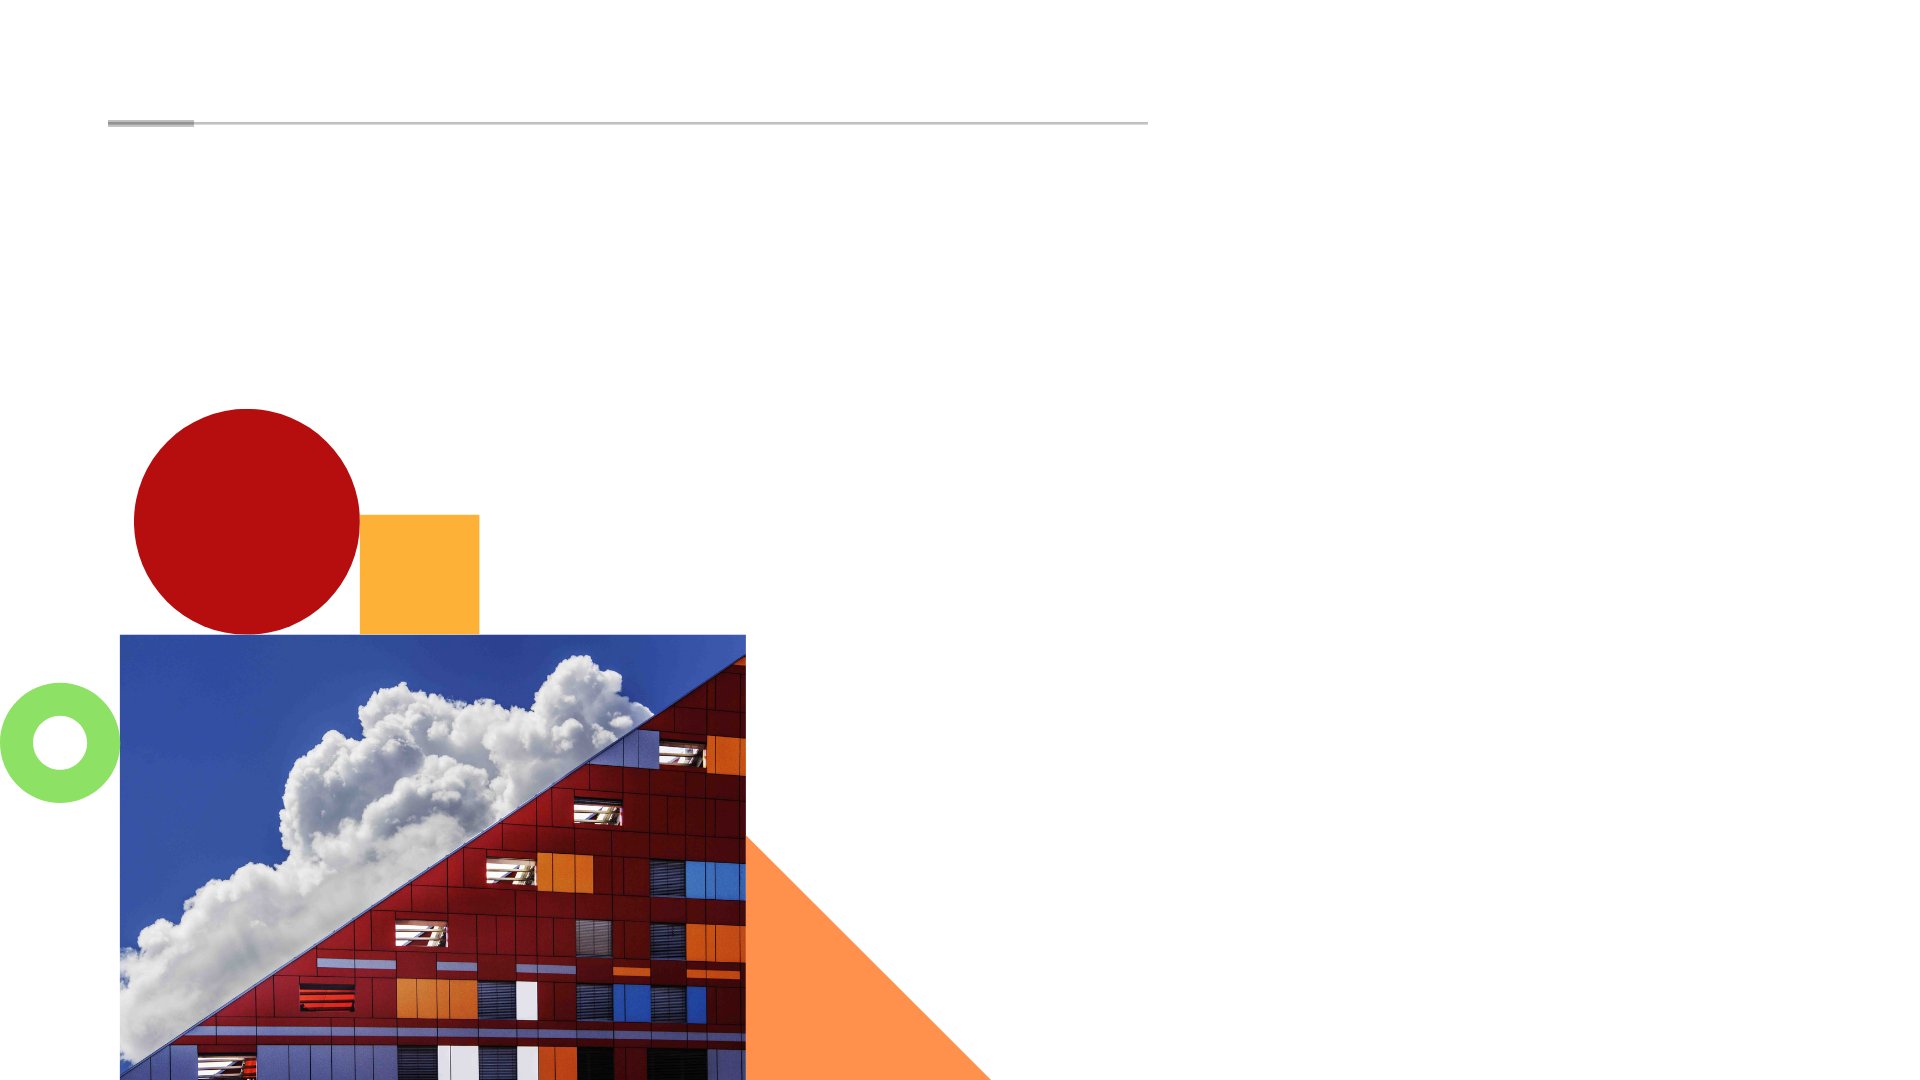
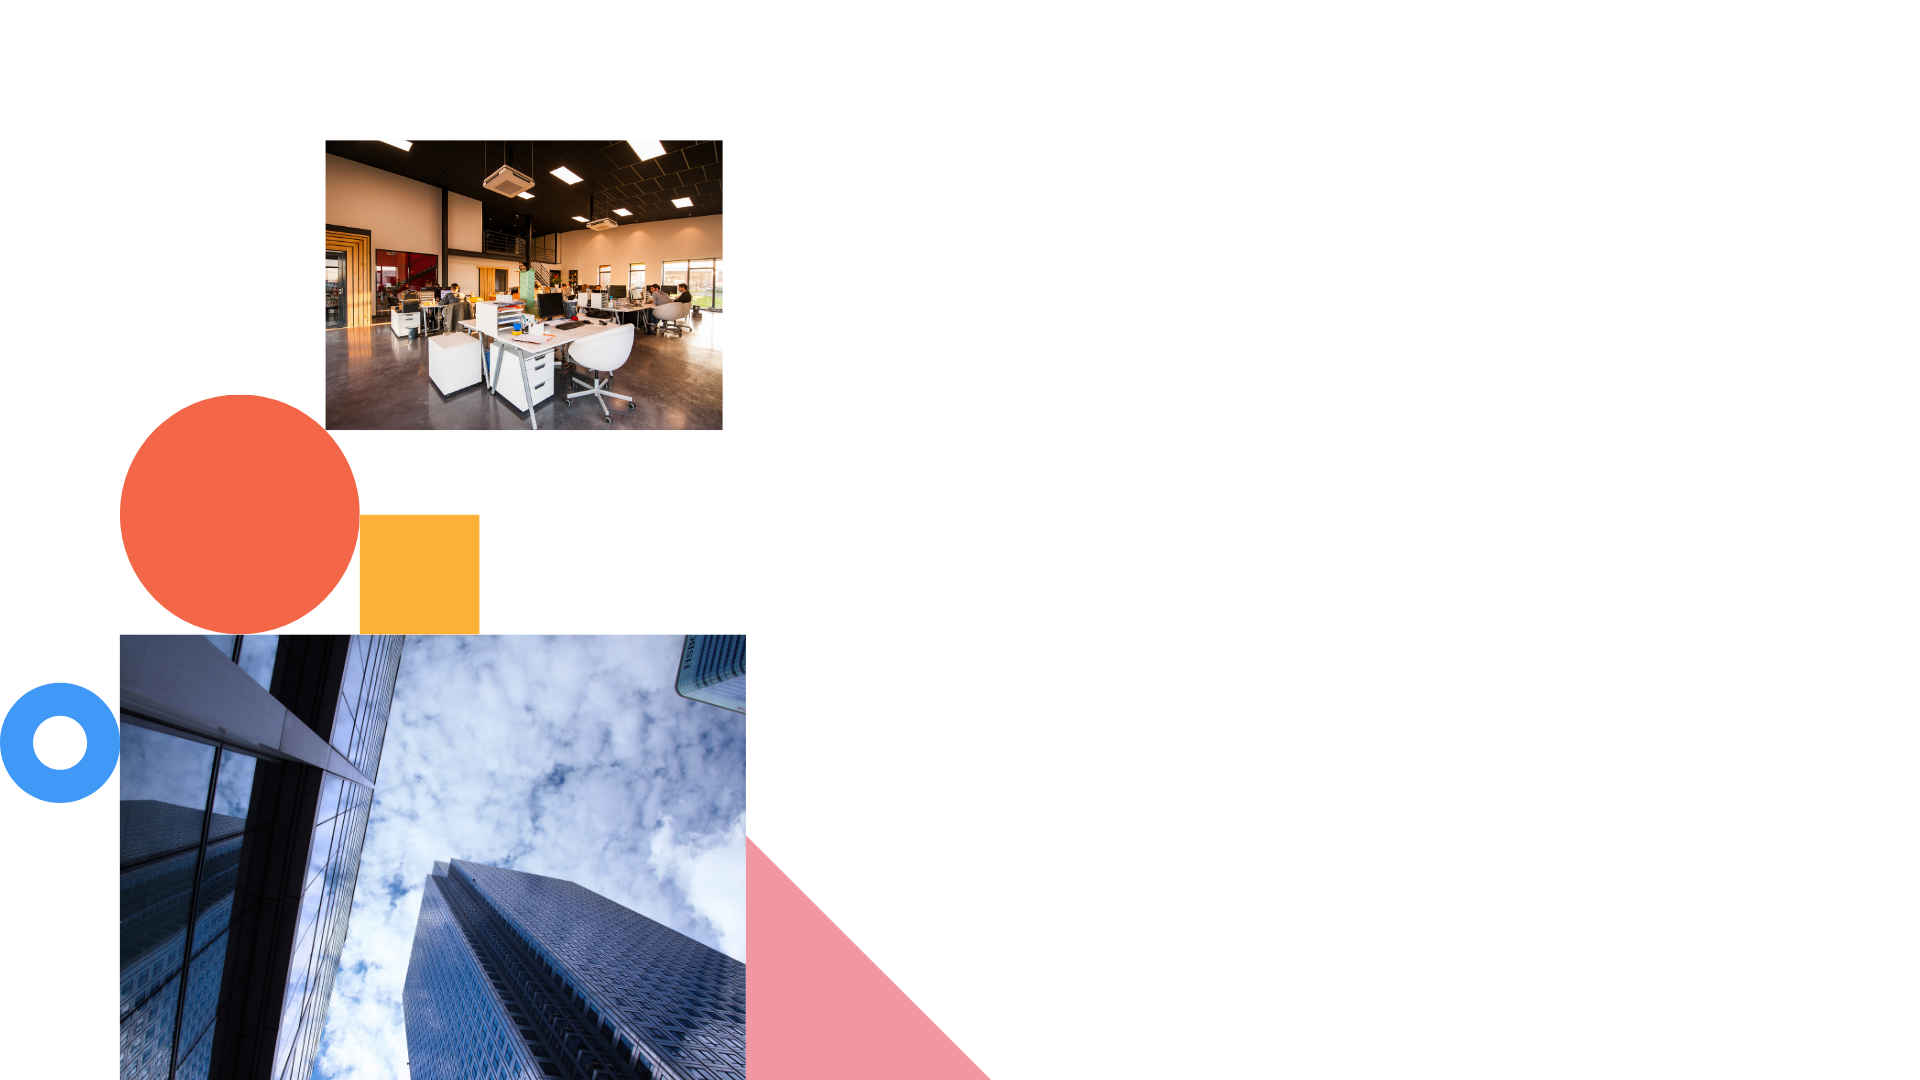
Home page final commit

Changed region(s): [[0.0, 0.1222, 0.5312, 1.0], [0.0625, 0.0917, 0.125, 0.1222]]

diff --git a/index.html b/index.html
@@ -247,9 +247,8 @@
               </div>
               <div class="card-body-c">
                 <p class="content-c">
-                  Sed porttitor lectus nibh. Cras ultricies ligula sed magna dictum porta. Praesent sapien massa,
-                  convallis a pellentesque
-                  nec, egestas non nisi.
+                  Ikon spaces helps you rent the best commercial spaces that suits
+                  your specific business requirements at budget.
                 </p>
               </div>
               <div class="card-footer-c">
@@ -271,9 +270,8 @@
               </div>
               <div class="card-body-c">
                 <p class="content-c">
-                  Nulla porttitor accumsan tincidunt. Curabitur aliquet quam id dui posuere blandit. Mauris blandit
-                  aliquet elit, eget tincidunt
-                  nibh pulvinar a.
+                  We help the companies to lease vibrant commercial spaces for longer
+                  periods of time with complete hassle free documentation.
                 </p>
               </div>
               <div class="card-footer-c">
@@ -295,9 +293,8 @@
               </div>
               <div class="card-body-c">
                 <p class="content-c">
-                  Sed porttitor lectus nibh. Cras ultricies ligula sed magna dictum porta. Praesent sapien massa,
-                  convallis a pellentesque
-                  nec, egestas non nisi.
+                  Ikon helps business to manage the complete maintenanace of your commercial space,
+                  just focus on your business and leave the rest on Ikon.
                 </p>
               </div>
               <div class="card-footer-c">
@@ -483,14 +480,14 @@
       </div>
     </section><!-- End Latest Properties Section -->
 
-    <!-- ======= Agents Section ======= -->
+    <!-- ======= Animation Section One ======= -->
     <section class="section-agents section-t8">
       <div class="container">
         <div class="row">
           <div class="col-md-12">
             <div class="title-wrap d-flex justify-content-between">
               <div class="title-box">
-                <h2 class="title-a">Best Agents</h2>
+                <h2 class="title-a">Discover the vibrant commercial spaces with IKON</h2>
               </div>
             </div>
           </div>
@@ -499,11 +496,63 @@
           <div class="col-md-8">
             <img class="Animation-Sec-Home-Image" src="assets/img/Animation-section-Home-Image.png" alt="Animated-Image">
           </div>
+          <div class="col-md-4">
+            <img class="Animation-Sec-Home-Image-2" src="assets/img/Animation-section-Home-Image-2.png" alt="Animated-Image">
+          </div>
         </div>
       </div>
-    </section><!-- End Agents Section -->
+    </section><!--End Animation Section One -->
+
+    <!-- ======= Animation Section two ======= -->
+    <section class="section-agents section-t8">
+      <div class="container">
+        <div class="row">
+          <div class="col-md-12">
+            <div class="title-wrap d-flex justify-content-between">
+              <div class="title-box">
+                <h2 class="title-a">Now serving across India</h2>
+              </div>
+            </div>
+          </div>
+        </div>
+        <div class="row">
+          <div class="col-md-8">
+            <img class="Animation-Sec-Home-Image" src="assets/img/Animation-section-Home-Image-3.png" alt="Animated-Image">
+          </div>
+          <div class="col-md-4">
+            <img class="Animation-Sec-Home-Image-2" src="assets/img/Animation-section-Home-Image-4.png" alt="Animated-Image">
+          </div>
+        </div>
+      </div>
+    </section>
+    <!--End Animation Section two -->
+
+    <!-- ======= Animation Section three ======= -->
+    <section class="section-agents section-t8">
+      <div class="container">
+        <div class="row">
+          <div class="col-md-12">
+            <div class="title-wrap d-flex justify-content-between">
+              <div class="title-box">
+                <h2 class="title-a">Bringing the ease in doing business</h2>
+              </div>
+            </div>
+          </div>
+        </div>
+        <div class="row">
+          <div class="col-md-8">
+            <img class="Animation-Sec-Home-Image" src="assets/img/Animation-section-Home-Image-6.png" alt="Animated-Image">
+          </div>
+          <div class="col-md-4">
+            <img class="Animation-Sec-Home-Image-2" src="assets/img/Animation-section-Home-Image-7.png" alt="Animated-Image">
+          </div>
+        </div>
+      </div>
+    </section>
+    <!--End Animation Section three -->
 
     <!-- ======= Latest News Section ======= -->
+    <!---
     <section class="section-news section-t8">
       <div class="container">
         <div class="row">
@@ -615,9 +664,12 @@
           </div>
         </div>
       </div>
-    </section><!-- End Latest News Section -->
+    </section>
+  -->
+    <!-- End Latest News Section -->
 
     <!-- ======= Testimonials Section ======= -->
+    <!---
     <section class="section-testimonials section-t8 nav-arrow-a">
       <div class="container">
         <div class="row">
@@ -686,7 +738,9 @@
           </div>
         </div>
       </div>
-    </section><!-- End Testimonials Section -->
+    </section>
+  -->
+    <!-- End Testimonials Section -->
 
   </main><!-- End #main -->
 
@@ -697,12 +751,11 @@
         <div class="col-sm-12 col-md-4">
           <div class="widget-a">
             <div class="w-header-a">
-              <h3 class="w-title-a text-brand">EstateAgency</h3>
+              <img src="assets/img/Image-Logo.png" class="Logo-Custom" alt="Logo">
             </div>
             <div class="w-body-a">
-              <p class="w-text-a color-text-a">
-                Enim minim veniam quis nostrud exercitation ullamco laboris nisi ut aliquip exea commodo consequat duis
-                sed aute irure.
+              <p class="w-text-a color-text-a" style="color: white !important;">
+               Discover the vibrant commercial spaces with Ikon spaces
               </p>
             </div>
             <div class="w-footer-a">
@@ -724,19 +777,16 @@
               <div class="w-body-a">
                 <ul class="list-unstyled">
                   <li class="item-list-a">
-                    <i class="fa fa-angle-right"></i> <a href="#">Site Map</a>
+                    <i class="fa fa-angle-right"></i> <a href="index.html">Home</a>
                   </li>
                   <li class="item-list-a">
-                    <i class="fa fa-angle-right"></i> <a href="#">Legal</a>
+                    <i class="fa fa-angle-right"></i> <a href="#">About Us</a>
                   </li>
                   <li class="item-list-a">
-                    <i class="fa fa-angle-right"></i> <a href="#">Agent Admin</a>
+                    <i class="fa fa-angle-right"></i> <a href="#">Portfolio</a>
                   </li>
                   <li class="item-list-a">
-                    <i class="fa fa-angle-right"></i> <a href="#">Careers</a>
-                  </li>
-                  <li class="item-list-a">
-                    <i class="fa fa-angle-right"></i> <a href="#">Affiliate</a>
+                    <i class="fa fa-angle-right"></i> <a href="#">Contact Us</a>
                   </li>
                   <li class="item-list-a">
                     <i class="fa fa-angle-right"></i> <a href="#">Privacy Policy</a>
@@ -754,22 +804,16 @@
             <div class="w-body-a">
               <ul class="list-unstyled">
                 <li class="item-list-a">
-                  <i class="fa fa-angle-right"></i> <a href="#">Venezuela</a>
+                  <i class="fa fa-angle-right"></i> <a href="#">India</a>
                 </li>
                 <li class="item-list-a">
-                  <i class="fa fa-angle-right"></i> <a href="#">China</a>
+                  <i class="fa fa-angle-right"></i> <a href="#">Dubai</a>
                 </li>
                 <li class="item-list-a">
-                  <i class="fa fa-angle-right"></i> <a href="#">Hong Kong</a>
-                </li>
-                <li class="item-list-a">
-                  <i class="fa fa-angle-right"></i> <a href="#">Argentina</a>
+                  <i class="fa fa-angle-right"></i> <a href="#">London</a>
                 </li>
                 <li class="item-list-a">
                   <i class="fa fa-angle-right"></i> <a href="#">Singapore</a>
-                </li>
-                <li class="item-list-a">
-                  <i class="fa fa-angle-right"></i> <a href="#">Philippines</a>
                 </li>
               </ul>
             </div>
@@ -785,16 +829,10 @@
           <nav class="nav-footer">
             <ul class="list-inline">
               <li class="list-inline-item">
-                <a href="#">Home</a>
+                <a href="index.html">Home</a>
               </li>
               <li class="list-inline-item">
                 <a href="#">About</a>
-              </li>
-              <li class="list-inline-item">
-                <a href="#">Property</a>
-              </li>
-              <li class="list-inline-item">
-                <a href="#">Blog</a>
               </li>
               <li class="list-inline-item">
                 <a href="#">Contact</a>

diff --git a/assets/css/style.css b/assets/css/style.css
@@ -23,7 +23,7 @@ h6 {
 }
 
 a {
-  color: #000000;
+  color: black;
   transition: all .5s ease;
 }
 
@@ -104,7 +104,7 @@ a:hover {
 }
 
 .text-brand {
-  color: #000000;
+  color: white;
   font-size: 2rem;
   font-weight: 600;
 }
@@ -116,11 +116,11 @@ a:hover {
 }
 
 .color-a {
-  color: #000000;
+  color: black;
 }
 
 .color-b {
-  color: #bd2130;
+  color: #ed3833;
 }
 
 .color-d {
@@ -128,7 +128,7 @@ a:hover {
 }
 
 .color-text-a {
-  color: #555555;
+  color: black;
 }
 
 .no-margin {
@@ -407,7 +407,7 @@ a:hover {
 }
 
 .owl-theme .owl-dots .owl-dot.active span {
-  background-color: #bd2130;;
+  background-color: #ed3833;
   width: 35px;
 }
 
@@ -485,7 +485,7 @@ a:hover {
 .back-to-top {
   position: fixed;
   display: none;
-  background: #bd2130;;
+  background: #ed3833;
   color: #fff;
   width: 44px;
   height: 44px;
@@ -573,12 +573,12 @@ a:hover {
 }
 
 .btn.btn-a:hover {
-  background-color: #2eca6a;
+  background-color: #ed3833;
   color: #000000;
 }
 
 .btn.btn-b {
-  background-color: #2eca6a;
+  background-color: #ed3833;
   color: #000000;
 }
 
@@ -588,13 +588,13 @@ a:hover {
 }
 
 .btn.btn-b-n {
-  background-color: #bd2130;
+  background-color: #ed3833;
   color: #ffffff;
   border-radius: 0;
 }
 
 .btn.btn-b-n:hover {
-  background-color: #26a356;
+  background-color: #ed3833;
   color: #ffffff;
 }
 
@@ -708,7 +708,7 @@ a:hover {
 }
 
 .navbar-default.navbar-reduce .nav-link:before {
-  background-color: #bd2130;
+  background-color: #ed3833;
 }
 
 .navbar-default.navbar-reduce .nav-link:hover {
@@ -1007,7 +1007,7 @@ a:hover {
 .intro .intro-body .price-a {
   color: #ffffff;
   padding: 1rem 1.5rem;
-  border: 2px solid #bd2130;
+  border: 2px solid #ed3833;
   border-radius: 50px;
   text-transform: uppercase;
   letter-spacing: 0.030em;
@@ -1329,7 +1329,7 @@ a:hover {
 .price-a {
   color: #ffffff;
   padding: .6rem .8rem;
-  border: 2px solid #bd2130;
+  border: 2px solid #ed3833;
   border-radius: 50px;
   text-transform: uppercase;
   letter-spacing: 0.030em;
@@ -1339,7 +1339,7 @@ a:hover {
   width: 100%;
   position: absolute;
   z-index: 2;
-  background-color: #bd2130;
+  background-color: #ed3833;
 }
 
 .card-info {
@@ -1656,7 +1656,7 @@ a:hover {
 
 .card-box-ico {
   padding: 1rem 3rem 1rem 2.5rem;
-  border: 5px solid #bd2130;
+  border: 5px solid #ed3833;
 }
 
 .card-box-ico span {
@@ -2128,7 +2128,7 @@ a:hover {
 .section-footer {
   padding-top: 60px;
   margin-top: 60px;
-  background: #f3f3f3;
+  background: #ed3833;
 }
 
 .section-footer ul {
@@ -2171,4 +2171,9 @@ footer .credits {
 
 .Animation-Sec-Home-Image {
   max-width: 100%;
+}
+
+.Animation-Sec-Home-Image-2 {
+  max-width: 260px;
+  margin-top: 100px;
 }
